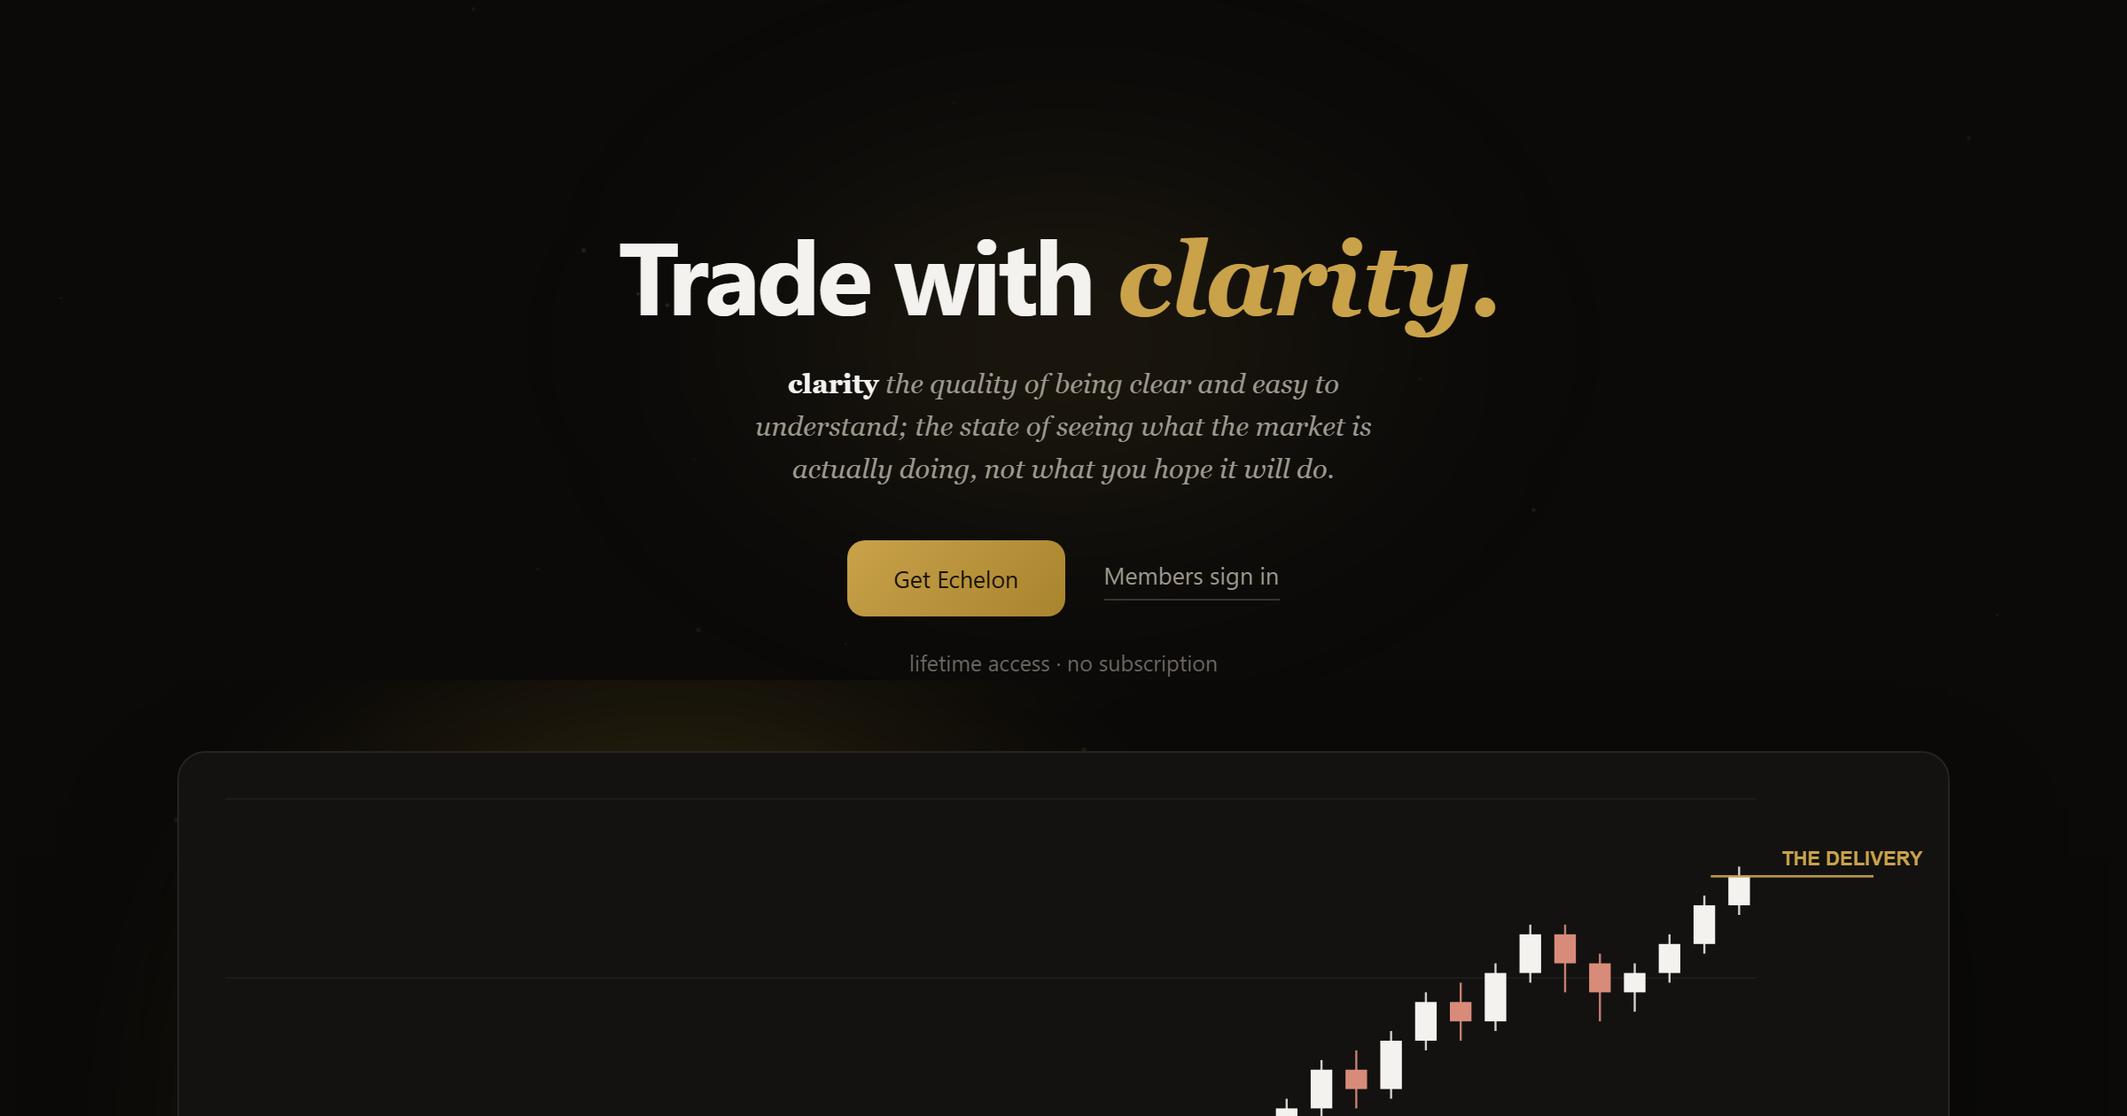
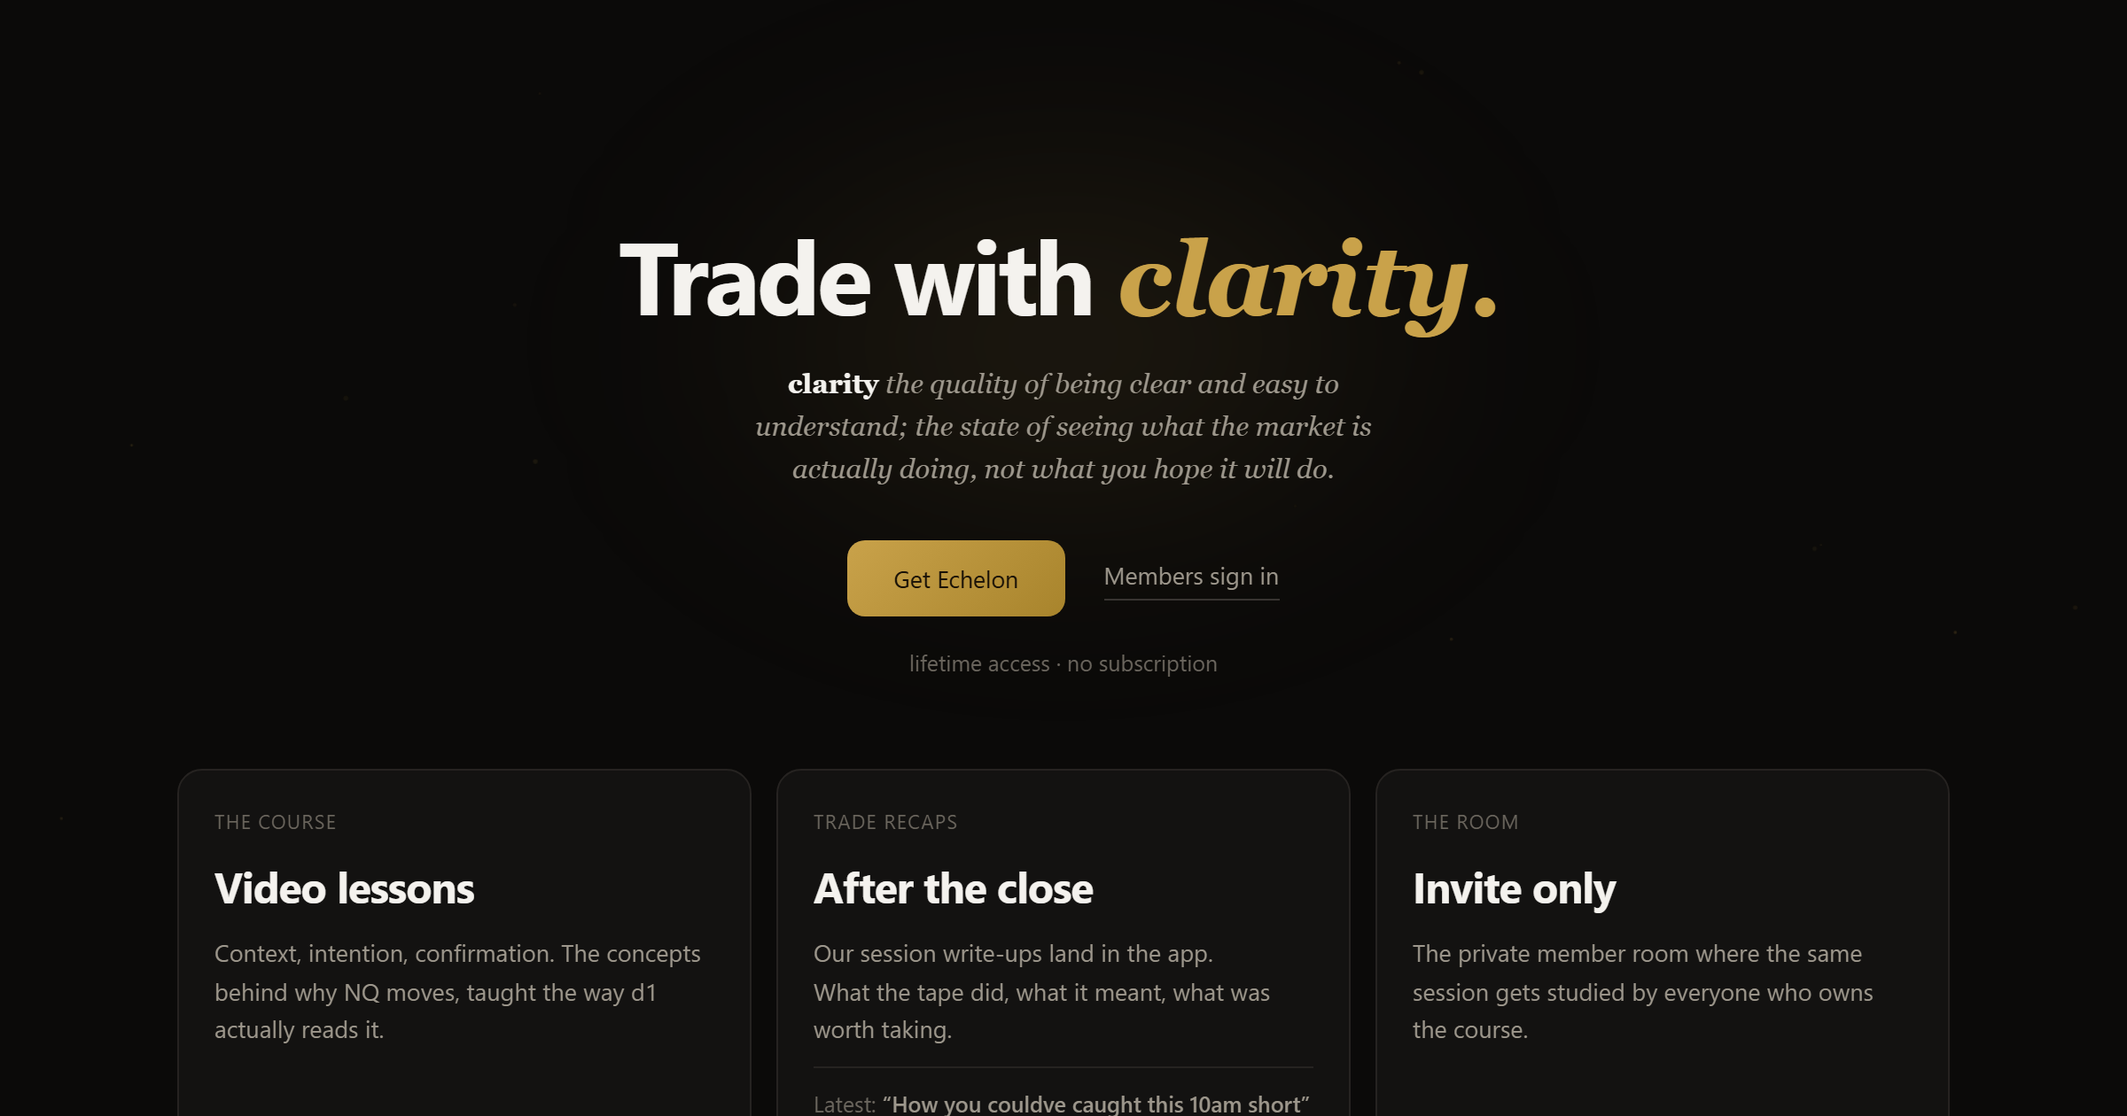
Landing: no candles, no dashboard mockup
D1's call: the hero chart and the app replica both come off. The hero
is the words; member screenshots carry the proof; the software becomes
one flat hairline band (label, one line, Open the app). Dead chart
script, demo CSS and orbs removed. og.png reshot type-only; the copy
test now locks the rule so neither sneaks back.

diff --git a/index.html b/index.html
@@ -39,12 +39,14 @@
   </script>
   <style>
     /* ─────────────────────────────────────────────────────────
-       d1fpc3.com | echelon (site root) — "showroom"
+       d1fpc3.com | echelon (site root)
 
-       The members dashboard is the hero: a working-looking replica
-       of the actual product, lit by the same gold orbs as the
-       sign-in gate. The page barely talks; the product does.
-       Palette and components are the dashboard's own.
+       Flat typographic landing. D1's rule (8/24): no candle
+       charts and no dashboard mockups on the landing — the hero
+       is the words, real member screenshots carry the proof, and
+       the software is a single hairline band. Palette is the
+       dashboard's own; accent words go gold serif italic like
+       the logo's E.
        ───────────────────────────────────────────────────────── */
     *, *::before, *::after { box-sizing: border-box; margin: 0; padding: 0; }
     [hidden] { display: none !important; }
@@ -162,78 +164,15 @@
     .hero .act { margin-top: 28px; display: flex; align-items: center; justify-content: center; gap: 22px; flex-wrap: wrap; }
     .hero .fine { margin-top: 16px; font-size: 12.5px; color: var(--faint); }
 
-    /* the replica */
-    .stage { position: relative; padding: clamp(40px, 6vh, 64px) 0 0; overflow: hidden; }
-    .hero-chart {
-      position: relative; border: 1px solid var(--line); border-radius: 16px;
-      background: var(--panel); overflow: hidden;
-      box-shadow: 0 30px 80px -30px rgba(0, 0, 0, 0.7);
+    /* the software: one flat hairline band, said not shown */
+    .soft-band-wrap { padding: clamp(48px, 8vh, 84px) 0 0; }
+    .soft-band {
+      border-top: 1px solid var(--line); border-bottom: 1px solid var(--line);
+      padding: 20px 2px; display: flex; align-items: baseline; gap: 14px 28px; flex-wrap: wrap;
     }
-    .hero-chart canvas { display: block; width: 100%; height: clamp(300px, 44vw, 460px); }
-    .orb { position: absolute; border-radius: 50%; filter: blur(80px); opacity: 0.35; pointer-events: none; }
-    .o1 { width: 420px; height: 420px; background: var(--gold-deep); top: 0; left: 50%; margin-left: -430px; }
-    .o2 { width: 340px; height: 340px; background: #7a4f16; bottom: -60px; left: 50%; margin-left: 90px; }
-
-    .demo {
-      position: relative; max-width: 960px; margin: 0 auto;
-      background: var(--panel); border: 1px solid var(--line-bright); border-radius: 16px;
-      overflow: hidden; display: grid; grid-template-columns: 216px 1fr;
-      box-shadow: 0 60px 120px -60px rgba(0,0,0,0.9);
-      pointer-events: none; user-select: none;
-    }
-    .demo .d-side { border-right: 1px solid var(--line); padding: 16px 10px; background: var(--panel); }
-    .demo .d-brand { font-weight: 700; font-size: 14px; letter-spacing: -0.02em; padding: 2px 8px 14px; display: flex; align-items: center; justify-content: space-between; }
-    .demo .d-brand small { font-size: 8.5px; font-weight: 600; letter-spacing: 0.12em; color: var(--gold); background: rgba(201,162,74,0.1); border: 1px solid rgba(201,162,74,0.25); border-radius: 4px; padding: 1px 5px; }
-    .demo .d-tab {
-      display: flex; align-items: center; gap: 9px; padding: 8px 10px; border-radius: 7px;
-      font-size: 12.5px; font-weight: 500; color: var(--muted);
-    }
-    .demo .d-tab.on { background: var(--panel-2); color: var(--ink); }
-    .demo .d-tab .ic { width: 14px; height: 14px; color: var(--faint); flex-shrink: 0; }
-    .demo .d-tab.on .ic { color: var(--gold); }
-    .demo .d-tab .ct { margin-left: auto; font-size: 10px; color: var(--faint); background: var(--panel-2); border-radius: 20px; padding: 1px 7px; font-variant-numeric: tabular-nums; }
-    .demo .d-tab .ct:empty { display: none; }
-    .demo .d-tab .nd { margin-left: auto; width: 6px; height: 6px; border-radius: 50%; background: var(--gold); opacity: 0.8; }
-    .demo .d-user { margin-top: 26px; border-top: 1px solid var(--line); padding: 10px 8px 0; display: flex; gap: 9px; align-items: center; }
-    .demo .d-ava { width: 26px; height: 26px; border-radius: 7px; background: linear-gradient(140deg, var(--gold), var(--gold-deep)); color: #1a1207; font-weight: 700; font-size: 11px; display: flex; align-items: center; justify-content: center; }
-    .demo .d-user div { font-size: 11px; }
-    .demo .d-user .r { color: var(--faint); font-size: 9.5px; }
-
-    .demo .d-main { min-width: 0; }
-    .demo .d-topbar { border-bottom: 1px solid var(--line); padding: 13px 20px; }
-    .demo .d-topbar h4 { font-size: 14.5px; font-weight: 700; letter-spacing: -0.02em; }
-    .demo .d-topbar span { font-size: 11px; color: var(--faint); }
-    .demo .d-pane { display: grid; grid-template-columns: 168px 1fr; gap: 18px; padding: 18px 20px 22px; }
-    .demo .d-toc { border-left: 1.5px solid var(--line); font-size: 11.5px; color: var(--muted); }
-    .demo .d-toc div { padding: 5px 0 5px 10px; position: relative; }
-    .demo .d-toc .on { color: var(--gold); font-weight: 600; }
-    .demo .d-toc .on::before { content: ""; position: absolute; left: -1.5px; top: 4px; bottom: 4px; width: 1.5px; background: var(--gold); }
-    .demo .d-toc .dn::after { content: ""; display: inline-block; width: 4px; height: 4px; border-radius: 50%; background: var(--gold); opacity: 0.5; margin-left: 6px; vertical-align: middle; }
-    .demo .d-lesson { background: var(--panel); border: 1px solid var(--line); border-radius: 11px; padding: 16px 18px; }
-    .demo .d-kind { font-size: 9px; letter-spacing: 0.13em; text-transform: uppercase; color: var(--gold); }
-    .demo .d-lesson h3 { font-size: 17px; font-weight: 700; letter-spacing: -0.02em; margin-top: 5px; }
-    .demo .d-player { margin-top: 12px; aspect-ratio: 16 / 9; border-radius: 8px; background: #000; border: 1px solid var(--line); display: flex; align-items: center; justify-content: center; }
-    .demo .d-play { width: 44px; height: 44px; border-radius: 50%; background: linear-gradient(135deg, var(--gold), var(--gold-deep)); display: flex; align-items: center; justify-content: center; }
-    .demo .d-play::after { content: ""; border-style: solid; border-width: 8px 0 8px 13px; border-color: transparent transparent transparent #1a1207; margin-left: 3px; }
-    .demo .d-foot { margin-top: 12px; display: flex; gap: 10px; align-items: center; }
-    .demo .d-done { font-size: 11px; font-weight: 600; color: #1a1207; background: linear-gradient(135deg, var(--gold), var(--gold-deep)); border-radius: 7px; padding: 7px 12px; }
-    .demo .d-next { font-size: 11px; color: var(--muted); border: 1px solid var(--line-bright); border-radius: 7px; padding: 7px 12px; }
-
-    @media (max-width: 760px) {
-      .demo { grid-template-columns: 1fr; }
-      .demo .d-side { display: none; }
-      .demo .d-pane { grid-template-columns: 1fr; }
-      .demo .d-toc { display: none; }
-    }
-
-    /* the software: the members app itself, shown not described */
-    .soft-wrap { padding: clamp(52px, 9vh, 92px) 0 0; }
-    .soft-head { max-width: 960px; margin: 0 auto 18px; display: flex; align-items: baseline; justify-content: space-between; gap: 12px 24px; flex-wrap: wrap; }
-    .soft-head p { color: var(--muted); font-size: 13.5px; max-width: 52ch; }
-    .soft-head p b { color: var(--ink); font-weight: 600; }
-
-    .stage .cap, .soft-cap { text-align: center; margin-top: 16px; font-size: 12px; color: var(--faint); }
-    .stage .cap b, .soft-cap b { color: var(--muted); font-weight: 500; }
+    .soft-band p { color: var(--muted); font-size: 13.5px; flex: 1; min-width: 260px; max-width: 62ch; }
+    .soft-band p b { color: var(--ink); font-weight: 600; }
+    .soft-band .quiet { white-space: nowrap; }
 
     /* what's inside: three panels, dashboard grammar */
     .inside { padding: clamp(48px, 8vh, 84px) 0 0; }
@@ -401,11 +340,6 @@
     .base { margin-top: 18px; display: flex; justify-content: space-between; gap: 12px 24px; flex-wrap: wrap; font-size: 11px; letter-spacing: 0.1em; text-transform: uppercase; color: var(--faint); }
     .base a:hover { color: var(--gold); }
 
-    @media (prefers-reduced-motion: no-preference) {
-      .demo.in { animation: rise 0.7s cubic-bezier(0.2, 0.7, 0.2, 1); }
-      @keyframes rise { from { opacity: 0; transform: translateY(26px); } }
-    }
-
   </style>
 </head>
 <body>
@@ -435,12 +369,6 @@
       <p class="fine">lifetime access · no subscription</p>
     </div></div>
 
-    <div class="stage"><div class="col" style="position:relative;">
-      <span class="orb o1" aria-hidden="true"></span>
-      <span class="orb o2" aria-hidden="true"></span>
-      <div class="hero-chart" aria-hidden="true"><canvas id="hero-chart"></canvas></div>
-      <p class="cap">Build-up. The sweep. The delivery. <b>This is the read Echelon teaches.</b></p>
-    </div></div>
     <div class="trades-wrap" id="trades" hidden><div class="col">
       <div class="tr-car">
         <div class="tr-track" id="tr-track" aria-label="Member trade screenshots"></div>
@@ -455,42 +383,12 @@
       </div>
     </div></div>
 
-    <div class="soft-wrap" id="software"><div class="col">
-      <div class="soft-head">
+    <div class="soft-band-wrap" id="software"><div class="col">
+      <div class="soft-band">
         <span class="label">The software</span>
-        <p>All of it lives in <b>one app</b> — the lessons, the recaps, the room, the GEX board. Sign in from the web or the Windows desktop app.</p>
+        <p>Everything lives in one app — the lessons, the recaps, the room, the GEX board. <b>Web and Windows desktop, one account.</b></p>
+        <a class="quiet" href="/echelon/app/">Open the app</a>
       </div>
-      <div class="demo" aria-hidden="true">
-        <div class="d-side">
-          <div class="d-brand">Echelon <small>MEMBER</small></div>
-          <div class="d-tab"><svg class="ic" viewBox="0 0 24 24" fill="none" stroke="currentColor" stroke-width="2" stroke-linecap="round" stroke-linejoin="round"><rect x="3" y="3" width="7" height="7"/><rect x="14" y="3" width="7" height="7"/><rect x="14" y="14" width="7" height="7"/><rect x="3" y="14" width="7" height="7"/></svg>Overview</div>
-          <div class="d-tab on"><svg class="ic" viewBox="0 0 24 24" fill="none" stroke="currentColor" stroke-width="2" stroke-linecap="round" stroke-linejoin="round"><path d="M2 3h6a4 4 0 0 1 4 4v14a3 3 0 0 0-3-3H2z"/><path d="M22 3h-6a4 4 0 0 0-4 4v14a3 3 0 0 1 3-3h7z"/></svg>Study</div>
-          <div class="d-tab"><svg class="ic" viewBox="0 0 24 24" fill="none" stroke="currentColor" stroke-width="2" stroke-linecap="round" stroke-linejoin="round"><path d="M21 11.5a8.38 8.38 0 0 1-.9 3.8 8.5 8.5 0 0 1-7.6 4.7 8.38 8.38 0 0 1-3.8-.9L3 21l1.9-5.7a8.38 8.38 0 0 1-.9-3.8 8.5 8.5 0 0 1 4.7-7.6 8.38 8.38 0 0 1 3.8-.9h.5a8.48 8.48 0 0 1 8 8v.5z"/></svg>Chat<span class="nd"></span></div>
-          <div class="d-tab"><svg class="ic" viewBox="0 0 24 24" fill="none" stroke="currentColor" stroke-width="2" stroke-linecap="round" stroke-linejoin="round"><polyline points="22 7 13.5 15.5 8.5 10.5 2 17"/><polyline points="16 7 22 7 22 13"/></svg>Trade recaps<span class="nd"></span></div>
-          <div class="d-tab"><svg class="ic" viewBox="0 0 24 24" fill="none" stroke="currentColor" stroke-width="2" stroke-linecap="round" stroke-linejoin="round"><line x1="18" y1="20" x2="18" y2="10"/><line x1="12" y1="20" x2="12" y2="4"/><line x1="6" y1="20" x2="6" y2="14"/></svg>GEX</div>
-          <div class="d-tab"><svg class="ic" viewBox="0 0 24 24" fill="none" stroke="currentColor" stroke-width="2" stroke-linecap="round" stroke-linejoin="round"><path d="M17 21v-2a4 4 0 0 0-4-4H5a4 4 0 0 0-4 4v2"/><circle cx="9" cy="7" r="4"/><path d="M23 21v-2a4 4 0 0 0-3-3.87M16 3.13a4 4 0 0 1 0 7.75"/></svg>Members</div>
-          <div class="d-user"><span class="d-ava">D1</span><div>d1<div class="r">Owner</div></div></div>
-        </div>
-        <div class="d-main">
-          <div class="d-topbar"><h4>Study</h4> <span>Lessons and progress</span></div>
-          <div class="d-pane">
-            <div class="d-toc">
-              <div class="dn">The build-up</div>
-              <div class="dn">Inducement</div>
-              <div class="on">The sweep</div>
-              <div>Mitigation</div>
-              <div>The delivery</div>
-            </div>
-            <div class="d-lesson">
-              <div class="d-kind">Lesson · Intention</div>
-              <h3>The sweep</h3>
-              <div class="d-player"><span class="d-play"></span></div>
-              <div class="d-foot"><span class="d-done">Mark complete</span><span class="d-next">Next lesson</span></div>
-            </div>
-          </div>
-        </div>
-      </div>
-      <p class="soft-cap">The members app, as it looks signed in. <b>Web and Windows desktop, one account.</b></p>
     </div></div>
 
 
@@ -732,18 +630,6 @@
       });
     })();
 
-    /* The app replica rises as it scrolls into view */
-    (function () {
-      var d = document.querySelector('.demo');
-      if (!d || !('IntersectionObserver' in window)) return;
-      var io = new IntersectionObserver(function (es) {
-        es.forEach(function (e) {
-          if (e.isIntersecting) { d.classList.add('in'); io.disconnect(); }
-        });
-      }, { threshold: 0.25 });
-      io.observe(d);
-    })();
-
     /* The header tightens once you're reading */
     (function () {
       var top = document.querySelector('.top');
@@ -878,131 +764,6 @@
 
     fetchEchelon(); fetchDiscord(); fetchReviews();
     setInterval(function () { fetchEchelon(); fetchDiscord(); }, 60000);
-  })();
-  </script>
-  <script>
-  // Hero: the LIT read, drawn live. A scripted sequence — build-up range,
-  // the sweep under it, entry, delivery — candles reveal one by one and the
-  // view auto-fits like a real chart, so the frame is always full. Loops.
-  // Reduced motion gets the finished frame, still.
-  (function () {
-    var cv = document.getElementById('hero-chart');
-    if (!cv || !cv.getContext) return;
-    var ctx = cv.getContext('2d');
-    var still = matchMedia('(prefers-reduced-motion: reduce)').matches;
-
-    // [open, close, low, high] — hand-scripted so the story is always clean
-    var C = [
-      [100,103,99,104],[103,101,100,105],[101,104,100,105],[104,102,101,106],[102,105,101,106],
-      [105,103,101,106],[103,100,98,104],[100,102,98,103],[102,99,97,103],[99,101,97,102],
-      [101,104,100,105],[104,102,100,105],[102,105,101,106],[105,102,100,106],[102,100,97,103],[100,98,96,101],
-      [98,94,92,99],[94,91,88,95],[91,89,86,92],[89,93,87,94],
-      [93,97,92,98],[97,101,96,102],[101,99,97,103],[99,103,98,104],
-      [103,107,102,108],[107,111,106,112],[111,109,107,113],[109,114,108,115],[114,118,113,119],
-      [118,116,114,120],[116,121,115,122],[121,125,120,126],[125,123,121,127],[123,128,122,129],
-      [128,132,127,133],[132,130,128,134],[130,135,129,136],[135,139,134,140],
-      [139,136,133,140],[136,133,130,137],[133,135,131,136],[135,138,134,139],
-      [138,142,137,143],[142,145,141,146]
-    ];
-    var SWEEP_I = 18, RECLAIM_I = 22, LAST = C.length;
-    var RLO = 96, RHI = 106, SWEEP_LOW = 86, ENTRY = 97, TARGET = 145;
-
-    var W = 0, H = 0, dpr = 1;
-    function size() {
-      dpr = Math.min(2, window.devicePixelRatio || 1);
-      W = cv.clientWidth; H = cv.clientHeight;
-      cv.width = Math.round(W * dpr); cv.height = Math.round(H * dpr);
-      ctx.setTransform(dpr, 0, 0, dpr, 0, 0);
-    }
-    var PAD_L = 26, PAD_R = 108, PAD_T = 26, PAD_B = 30;
-
-    // the view: follows the revealed candles, eased, like a chart auto-fit
-    var vLo = 95, vHi = 108;
-    function target(n) {
-      var lo = 1e9, hi = -1e9;
-      for (var i = 0; i < Math.min(n, LAST); i++) { lo = Math.min(lo, C[i][2]); hi = Math.max(hi, C[i][3]); }
-      if (lo > hi) { lo = 95; hi = 108; }
-      var pad = (hi - lo) * 0.1 + 1;
-      return [lo - pad, hi + pad];
-    }
-    function x(i) { return PAD_L + (i + 0.5) * ((W - PAD_L - PAD_R) / LAST); }
-    function y(p) { return PAD_T + (vHi - p) / (vHi - vLo) * (H - PAD_T - PAD_B); }
-
-    function draw(n) {
-      ctx.clearRect(0, 0, W, H);
-      var bw = Math.max(4, (W - PAD_L - PAD_R) / LAST * 0.62);
-
-      ctx.strokeStyle = 'rgba(157,151,140,0.07)'; ctx.lineWidth = 1;
-      for (var g = 0; g < 5; g++) {
-        var gy = PAD_T + g * (H - PAD_T - PAD_B) / 4;
-        ctx.beginPath(); ctx.moveTo(PAD_L, gy); ctx.lineTo(W - PAD_R, gy); ctx.stroke();
-      }
-
-      // build-up range box
-      ctx.fillStyle = 'rgba(201,162,74,0.05)';
-      ctx.fillRect(x(0) - bw, y(RHI), x(15) - x(0) + bw * 2, y(RLO) - y(RHI));
-      ctx.strokeStyle = 'rgba(201,162,74,0.25)';
-      ctx.strokeRect(x(0) - bw, y(RHI), x(15) - x(0) + bw * 2, y(RLO) - y(RHI));
-      ctx.font = '600 10px Inter, sans-serif'; ctx.fillStyle = 'rgba(201,162,74,0.7)';
-      ctx.fillText('BUILD-UP', x(0) - bw + 8, y(RHI) - 6);
-
-      for (var i = 0; i < Math.min(n, LAST); i++) {
-        var c = C[i], up = c[1] >= c[0];
-        var cx = x(i);
-        ctx.strokeStyle = up ? 'rgba(244,242,238,0.85)' : 'rgba(217,139,122,0.9)';
-        ctx.lineWidth = 1.2;
-        ctx.beginPath(); ctx.moveTo(cx, y(c[3])); ctx.lineTo(cx, y(c[2])); ctx.stroke();
-        ctx.fillStyle = up ? '#f4f2ee' : '#d98b7a';
-        var top = y(Math.max(c[0], c[1])), bh = Math.max(2, Math.abs(y(c[0]) - y(c[1])));
-        ctx.fillRect(cx - bw / 2, top, bw, bh);
-      }
-
-      if (n > SWEEP_I) {
-        var sx = x(SWEEP_I), sy = y(SWEEP_LOW);
-        ctx.strokeStyle = '#d98b7a'; ctx.lineWidth = 1.4;
-        ctx.beginPath(); ctx.moveTo(sx - 16, sy + 6); ctx.lineTo(sx + 16, sy + 6); ctx.stroke();
-        ctx.fillStyle = '#d98b7a'; ctx.font = '600 11px Inter, sans-serif';
-        ctx.fillText('THE SWEEP', sx - 31, sy + 22);
-      }
-      if (n > RECLAIM_I) {
-        var ey = y(ENTRY);
-        ctx.strokeStyle = 'rgba(201,162,74,0.9)'; ctx.lineWidth = 1.2; ctx.setLineDash([5, 5]);
-        ctx.beginPath(); ctx.moveTo(x(RECLAIM_I - 1), ey); ctx.lineTo(W - PAD_R + 66, ey); ctx.stroke();
-        ctx.setLineDash([]);
-        ctx.fillStyle = '#c9a24a'; ctx.font = '600 11px Inter, sans-serif';
-        ctx.fillText('ENTRY', W - PAD_R + 14, ey - 6);
-      }
-      if (n >= LAST) {
-        var ty = y(TARGET);
-        ctx.strokeStyle = 'rgba(201,162,74,0.9)'; ctx.lineWidth = 1.4;
-        ctx.beginPath(); ctx.moveTo(x(LAST - 1) - 16, ty); ctx.lineTo(W - PAD_R + 66, ty); ctx.stroke();
-        ctx.fillStyle = '#c9a24a'; ctx.font = '600 11px Inter, sans-serif';
-        ctx.fillText('THE DELIVERY', W - PAD_R + 14, ty - 6);
-      }
-    }
-
-    size();
-    if (still) {
-      var tf = target(LAST); vLo = tf[0]; vHi = tf[1];
-      draw(LAST);
-      addEventListener('resize', function () { size(); draw(LAST) });
-      return;
-    }
-    var n = 6, last = 0, HOLD = 3000, holdUntil = 0;
-    function frame(t) {
-      if (holdUntil) {
-        if (t >= holdUntil) { n = 6; holdUntil = 0; var t0 = target(n); vLo = t0[0]; vHi = t0[1]; }
-      } else if (t - last >= 95) {
-        last = t; n++;
-        if (n >= LAST) { n = LAST; holdUntil = t + HOLD; }
-      }
-      var tg = target(n);
-      vLo += (tg[0] - vLo) * 0.12; vHi += (tg[1] - vHi) * 0.12;
-      draw(n);
-      requestAnimationFrame(frame);
-    }
-    addEventListener('resize', size);
-    requestAnimationFrame(frame);
   })();
   </script>
   <script>
